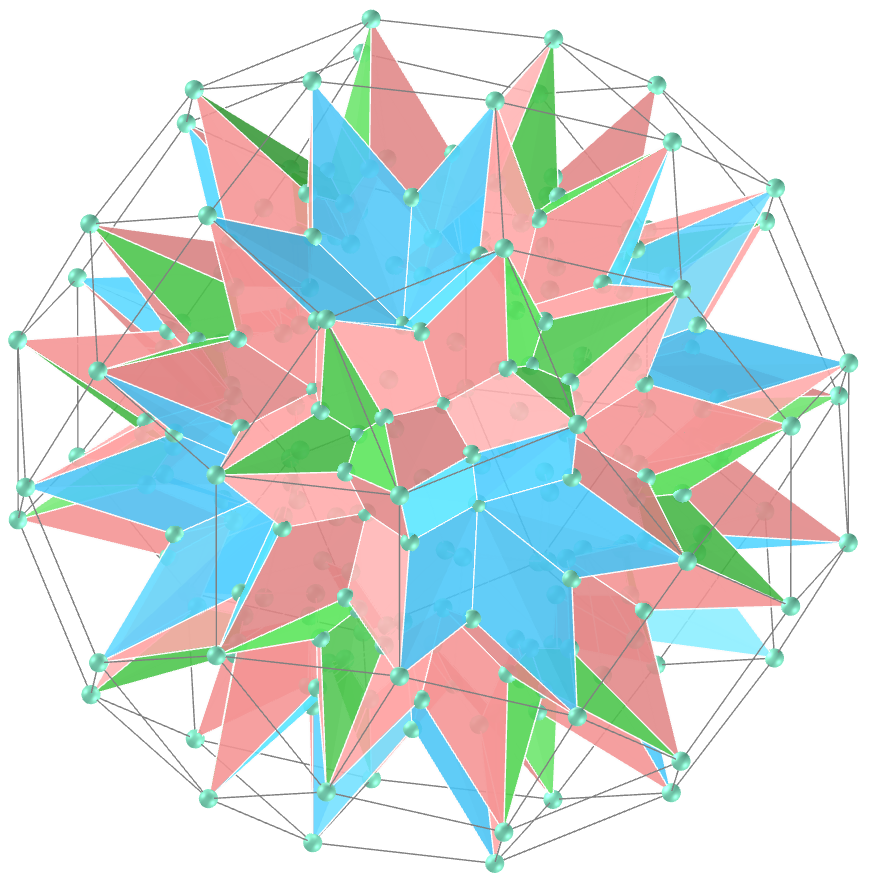
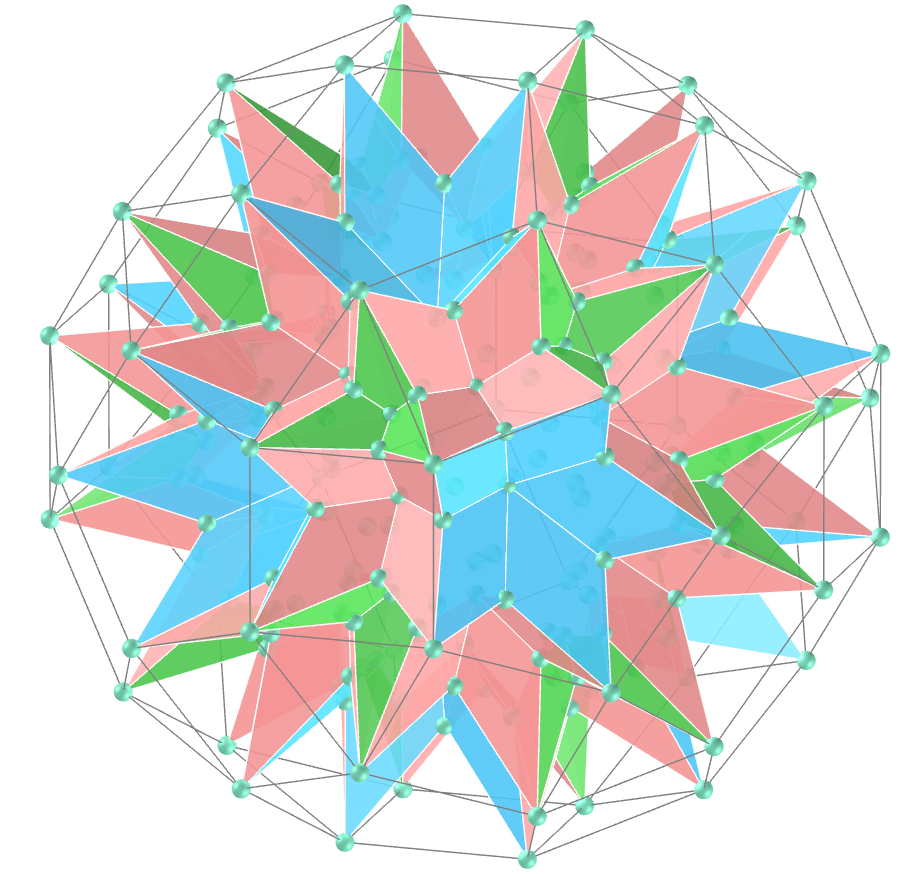
update

diff --git a/kites/vr/Rhombicuboctahedron.htm b/kites/vr/Rhombicuboctahedron.htm
@@ -60,7 +60,7 @@
 			<a-sphere mixin='esfera' position='0.651602742 0.3817 0.651602742'></a-sphere>
 			<a-sphere mixin='esfera' position='0.651602742 0.651602742 0.3817'></a-sphere>
 			<a-sphere mixin='esfera' position='0.3817 0.651602742 0.651602742'></a-sphere>
-			<a-sphere mixin='esfera' position='0.521392244 0.521392244 0.521392244'></a-sphere>
+			<a-sphere mixin='esfera' position='0.5205788432 0.5205788432 0.5205788432'></a-sphere>
 			<a-sphere mixin='esfera' position='0.3817 0 -0.921505484'></a-sphere>
 			<a-sphere mixin='esfera' position='0 -0.3817 -0.921505484'></a-sphere>
 			<a-sphere mixin='esfera' position='-0.3817 0 -0.921505484'></a-sphere>
@@ -90,90 +90,90 @@
 			<a-sphere mixin='esfera' position='0.651602742 -0.3817 0.651602742'></a-sphere>
 			<a-sphere mixin='esfera' position='0.921505484 0 0.3817'></a-sphere>
 			<a-sphere mixin='esfera' position='0.651602742 0.3817 0.651602742'></a-sphere>
-			<a-sphere mixin='esfera' position='0.529032459 0 0.529032459'></a-sphere>
+			<a-sphere mixin='esfera' position='0.5269308928 0 0.5269308928'></a-sphere>
 			<a-sphere mixin='esfera' position='0.3817 0.651602742 0.651602742'></a-sphere>
 			<a-sphere mixin='esfera' position='0 0.921505484 0.3817'></a-sphere>
 			<a-sphere mixin='esfera' position='-0.3817 0.651602742 0.651602742'></a-sphere>
 			<a-sphere mixin='esfera' position='0 0.3817 0.921505484'></a-sphere>
-			<a-sphere mixin='esfera' position='0 0.529032459 0.529032459'></a-sphere>
+			<a-sphere mixin='esfera' position='0 0.5269308928 0.5269308928'></a-sphere>
 			<a-sphere mixin='esfera' position='0 -0.3817 -0.921505484'></a-sphere>
 			<a-sphere mixin='esfera' position='0.3817 -0.651602742 -0.651602742'></a-sphere>
 			<a-sphere mixin='esfera' position='0 -0.921505484 -0.3817'></a-sphere>
 			<a-sphere mixin='esfera' position='-0.3817 -0.651602742 -0.651602742'></a-sphere>
-			<a-sphere mixin='esfera' position='0 -0.529032459 -0.529032459'></a-sphere>
+			<a-sphere mixin='esfera' position='0 -0.5269308928 -0.5269308928'></a-sphere>
 			<a-sphere mixin='esfera' position='-0.651602742 -0.3817 -0.651602742'></a-sphere>
 			<a-sphere mixin='esfera' position='-0.921505484 0 -0.3817'></a-sphere>
 			<a-sphere mixin='esfera' position='-0.651602742 0.3817 -0.651602742'></a-sphere>
 			<a-sphere mixin='esfera' position='-0.3817 0 -0.921505484'></a-sphere>
-			<a-sphere mixin='esfera' position='-0.529032459 0 -0.529032459'></a-sphere>
+			<a-sphere mixin='esfera' position='-0.5269308928 0 -0.5269308928'></a-sphere>
 			<a-sphere mixin='esfera' position='0.651602742 -0.3817 -0.651602742'></a-sphere>
 			<a-sphere mixin='esfera' position='0.3817 0 -0.921505484'></a-sphere>
 			<a-sphere mixin='esfera' position='0.651602742 0.3817 -0.651602742'></a-sphere>
 			<a-sphere mixin='esfera' position='0.921505484 0 -0.3817'></a-sphere>
-			<a-sphere mixin='esfera' position='0.529032459 0 -0.529032459'></a-sphere>
+			<a-sphere mixin='esfera' position='0.5269308928 0 -0.5269308928'></a-sphere>
 			<a-sphere mixin='esfera' position='0.921505484 -0.3817 0'></a-sphere>
 			<a-sphere mixin='esfera' position='0.651602742 -0.651602742 0.3817'></a-sphere>
 			<a-sphere mixin='esfera' position='0.3817 -0.921505484 0'></a-sphere>
 			<a-sphere mixin='esfera' position='0.651602742 -0.651602742 -0.3817'></a-sphere>
-			<a-sphere mixin='esfera' position='0.529032459 -0.529032459 0'></a-sphere>
+			<a-sphere mixin='esfera' position='0.5269308928 -0.5269308928 0'></a-sphere>
 			<a-sphere mixin='esfera' position='-0.921505484 0 0.3817'></a-sphere>
 			<a-sphere mixin='esfera' position='-0.651602742 -0.3817 0.651602742'></a-sphere>
 			<a-sphere mixin='esfera' position='-0.3817 0 0.921505484'></a-sphere>
 			<a-sphere mixin='esfera' position='-0.651602742 0.3817 0.651602742'></a-sphere>
-			<a-sphere mixin='esfera' position='-0.529032459 0 0.529032459'></a-sphere>
+			<a-sphere mixin='esfera' position='-0.5269308928 0 0.5269308928'></a-sphere>
 			<a-sphere mixin='esfera' position='-0.651602742 0.651602742 0.3817'></a-sphere>
 			<a-sphere mixin='esfera' position='-0.3817 0.921505484 0'></a-sphere>
 			<a-sphere mixin='esfera' position='-0.651602742 0.651602742 -0.3817'></a-sphere>
 			<a-sphere mixin='esfera' position='-0.921505484 0.3817 0'></a-sphere>
-			<a-sphere mixin='esfera' position=' -0.529032459 0.529032459 0'></a-sphere>
+			<a-sphere mixin='esfera' position=' -0.5269308928 0.5269308928 0'></a-sphere>
 			<a-sphere mixin='esfera' position='0.3817 0.651602742 -0.651602742'></a-sphere>
 			<a-sphere mixin='esfera' position='0 0.3817 -0.921505484'></a-sphere>
 			<a-sphere mixin='esfera' position='-0.3817 0.651602742 -0.651602742'></a-sphere>
 			<a-sphere mixin='esfera' position='0 0.921505484 -0.3817'></a-sphere>
-			<a-sphere mixin='esfera' position=' 0 0.529032459 -0.529032459'></a-sphere>
+			<a-sphere mixin='esfera' position=' 0 0.5269308928 -0.5269308928'></a-sphere>
 			<a-sphere mixin='esfera' position='0.3817 0.921505484 0'></a-sphere>
 			<a-sphere mixin='esfera' position='0.651602742 0.651602742 0.3817'></a-sphere>
 			<a-sphere mixin='esfera' position='0.921505484 0.3817 0'></a-sphere>
 			<a-sphere mixin='esfera' position='0.651602742 0.651602742 -0.3817'></a-sphere>
-			<a-sphere mixin='esfera' position=' 0.529032459 0.529032459 0'></a-sphere>
+			<a-sphere mixin='esfera' position=' 0.5269308928 0.5269308928 0'></a-sphere>
 			<a-sphere mixin='esfera' position='-0.651602742 -0.651602742 0.3817'></a-sphere>
 			<a-sphere mixin='esfera' position='-0.921505484 -0.3817 0'></a-sphere>
 			<a-sphere mixin='esfera' position='-0.651602742 -0.651602742 -0.3817'></a-sphere>
 			<a-sphere mixin='esfera' position='-0.3817 -0.921505484 0'></a-sphere>
-			<a-sphere mixin='esfera' position='-0.529032459 -0.529032459 0'></a-sphere>
+			<a-sphere mixin='esfera' position='-0.5269308928 -0.5269308928 0'></a-sphere>
 			<a-sphere mixin='esfera' position='0 -0.921505484 0.3817'></a-sphere>
 			<a-sphere mixin='esfera' position='0.3817 -0.651602742 0.651602742'></a-sphere>
 			<a-sphere mixin='esfera' position='0 -0.3817 0.921505484'></a-sphere>
 			<a-sphere mixin='esfera' position='-0.3817 -0.651602742 0.651602742'></a-sphere>
-			<a-sphere mixin='esfera' position='0 -0.529032459 0.529032459'></a-sphere>
+			<a-sphere mixin='esfera' position='0 -0.5269308928 0.5269308928'></a-sphere>
 			<a-sphere mixin='esfera' position='0.3817 0.651602742 -0.651602742'></a-sphere>
 			<a-sphere mixin='esfera' position='0.651602742 0.651602742 -0.3817'></a-sphere>
 			<a-sphere mixin='esfera' position='0.651602742 0.3817 -0.651602742'></a-sphere>
-			<a-sphere mixin='esfera' position=' 0.521392244 0.521392244 -0.521392244'></a-sphere>
+			<a-sphere mixin='esfera' position=' 0.5205788432 0.5205788432 -0.5205788432'></a-sphere>
 			<a-sphere mixin='esfera' position='0.3817 -0.651602742 0.651602742'></a-sphere>
 			<a-sphere mixin='esfera' position='0.651602742 -0.651602742 0.3817'></a-sphere>
 			<a-sphere mixin='esfera' position='0.651602742 -0.3817 0.651602742'></a-sphere>
-			<a-sphere mixin='esfera' position=' 0.521392244 -0.521392244 0.521392244'></a-sphere>
+			<a-sphere mixin='esfera' position=' 0.5205788432 -0.5205788432 0.5205788432'></a-sphere>
 			<a-sphere mixin='esfera' position='0.651602742 -0.3817 -0.651602742'></a-sphere>
 			<a-sphere mixin='esfera' position='0.651602742 -0.651602742 -0.3817'></a-sphere>
 			<a-sphere mixin='esfera' position='0.3817 -0.651602742 -0.651602742'></a-sphere>
-			<a-sphere mixin='esfera' position='0.521392244 -0.521392244 -0.521392244'></a-sphere>
+			<a-sphere mixin='esfera' position='0.5205788432 -0.5205788432 -0.5205788432'></a-sphere>
 			<a-sphere mixin='esfera' position='-0.3817 0.651602742 0.651602742'></a-sphere>
 			<a-sphere mixin='esfera' position='-0.651602742 0.651602742 0.3817'></a-sphere>
 			<a-sphere mixin='esfera' position='-0.651602742 0.3817 0.651602742'></a-sphere>
-			<a-sphere mixin='esfera' position='-0.521392244 0.521392244 0.521392244'></a-sphere>
+			<a-sphere mixin='esfera' position='-0.5205788432 0.5205788432 0.5205788432'></a-sphere>
 			<a-sphere mixin='esfera' position='-0.651602742 0.3817 -0.651602742'></a-sphere>
 			<a-sphere mixin='esfera' position='-0.651602742 0.651602742 -0.3817'></a-sphere>
 			<a-sphere mixin='esfera' position='-0.3817 0.651602742 -0.651602742'></a-sphere>
-			<a-sphere mixin='esfera' position='-0.521392244 0.521392244 -0.521392244'></a-sphere>
+			<a-sphere mixin='esfera' position='-0.5205788432 0.5205788432 -0.5205788432'></a-sphere>
 			<a-sphere mixin='esfera' position='-0.651602742 -0.3817 0.651602742'></a-sphere>
 			<a-sphere mixin='esfera' position='-0.651602742 -0.651602742 0.3817'></a-sphere>
 			<a-sphere mixin='esfera' position='-0.3817 -0.651602742 0.651602742'></a-sphere>
-			<a-sphere mixin='esfera' position='-0.521392244 -0.521392244 0.521392244'></a-sphere>
+			<a-sphere mixin='esfera' position='-0.5205788432 -0.5205788432 0.5205788432'></a-sphere>
 			<a-sphere mixin='esfera' position='-0.3817 -0.651602742 -0.651602742'></a-sphere>
 			<a-sphere mixin='esfera' position='-0.651602742 -0.651602742 -0.3817'></a-sphere>
 			<a-sphere mixin='esfera' position='-0.651602742 -0.3817 -0.651602742'></a-sphere>
-			<a-sphere mixin='esfera' position='-0.521392244 -0.521392244 -0.521392244'></a-sphere>
+			<a-sphere mixin='esfera' position='-0.5205788432 -0.5205788432 -0.5205788432'></a-sphere>
 		</a-entity>
 		
 		<a-box mixin="piso" class="piso" visible="false" position="0 -1.5 0"></a-box>
